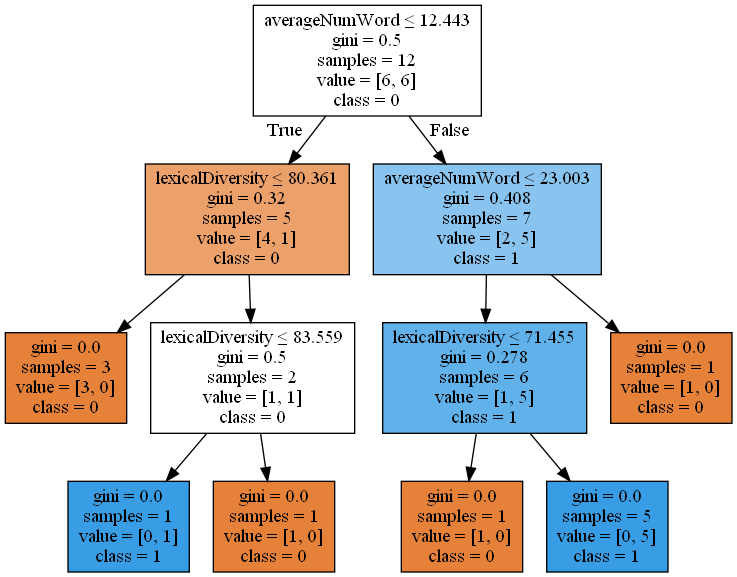
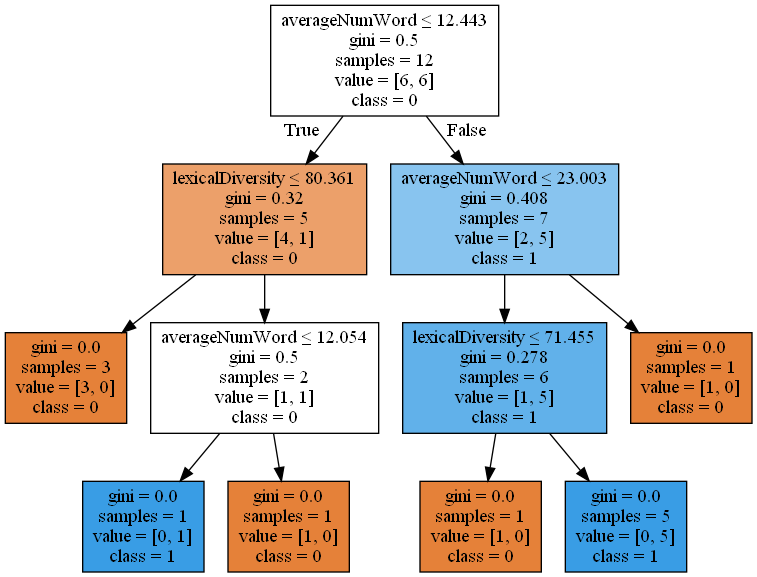
add Bayes classifire

diff --git a/main.py b/main.py
@@ -1,24 +1,17 @@
 # -*- coding: utf-8 -*-
-from nltk.util import pr
 import numpy 
 import nltk
-import glob
-import os
 import string
 from array import *
 import csv
-import pandas
-import seaborn
 from sklearn import metrics
-from sklearn.metrics import confusion_matrix
 from sklearn.model_selection import train_test_split
 from sklearn.tree import DecisionTreeClassifier
-from sklearn.ensemble import RandomForestClassifier
-from sklearn.ensemble import GradientBoostingClassifier
 from sklearn.tree import export_graphviz
 from six import StringIO
 from IPython.display import Image
 import pydotplus
+from sklearn.naive_bayes import GaussianNB
 
 #array with file`s index
 filesIndex = ['11', '12', '13', '14', '15', '16', '17', '18',
@@ -100,7 +93,7 @@ x_set_train, x_set_test, y_set_train, y_set_test = train_test_split(x, y, test_s
 
 #create and trainig tree
 
-decisionTree = DecisionTreeClassifier(max_depth=3)
+decisionTree = DecisionTreeClassifier(max_depth=7)
 decisionTree = decisionTree.fit(x_set_train, y_set_train)
 
 #testing tree
@@ -128,4 +121,34 @@ Image(vizTree.create_png())
 
 
 
-# second method
+# second method Bayesian classifier
+
+
+with open('datasetWithMetrics.csv', 'r', encoding='utf-8') as file:
+    data = csv.reader(file, delimiter='~')
+    data = list(map(lambda e: e[0:], data))
+    headers = data.pop(0)[:-1]
+
+    #we divide the dimensions into independent and dependent ones by column names
+
+    x = list(map(lambda x: x[:-1], data))
+    y = [x[-1] for x in data]
+
+#we divide the dataset into training and test data
+
+x_set_train, x_set_test, y_set_train, y_set_test = train_test_split(x, y, test_size=0.25, shuffle = True, random_state = 42 )
+
+#training Gaus model
+
+gnb = GaussianNB()
+gnb.fit(x_set_train, y_set_train)
+y_pred = gnb.predict(x_set_test)
+
+count = 0
+for i in x_set_test :
+    print(i)
+    print(y_pred[count])
+    count+=1
+
+print("Accuracy of Gaus model :", metrics.accuracy_score(y_set_test, y_pred))
+
